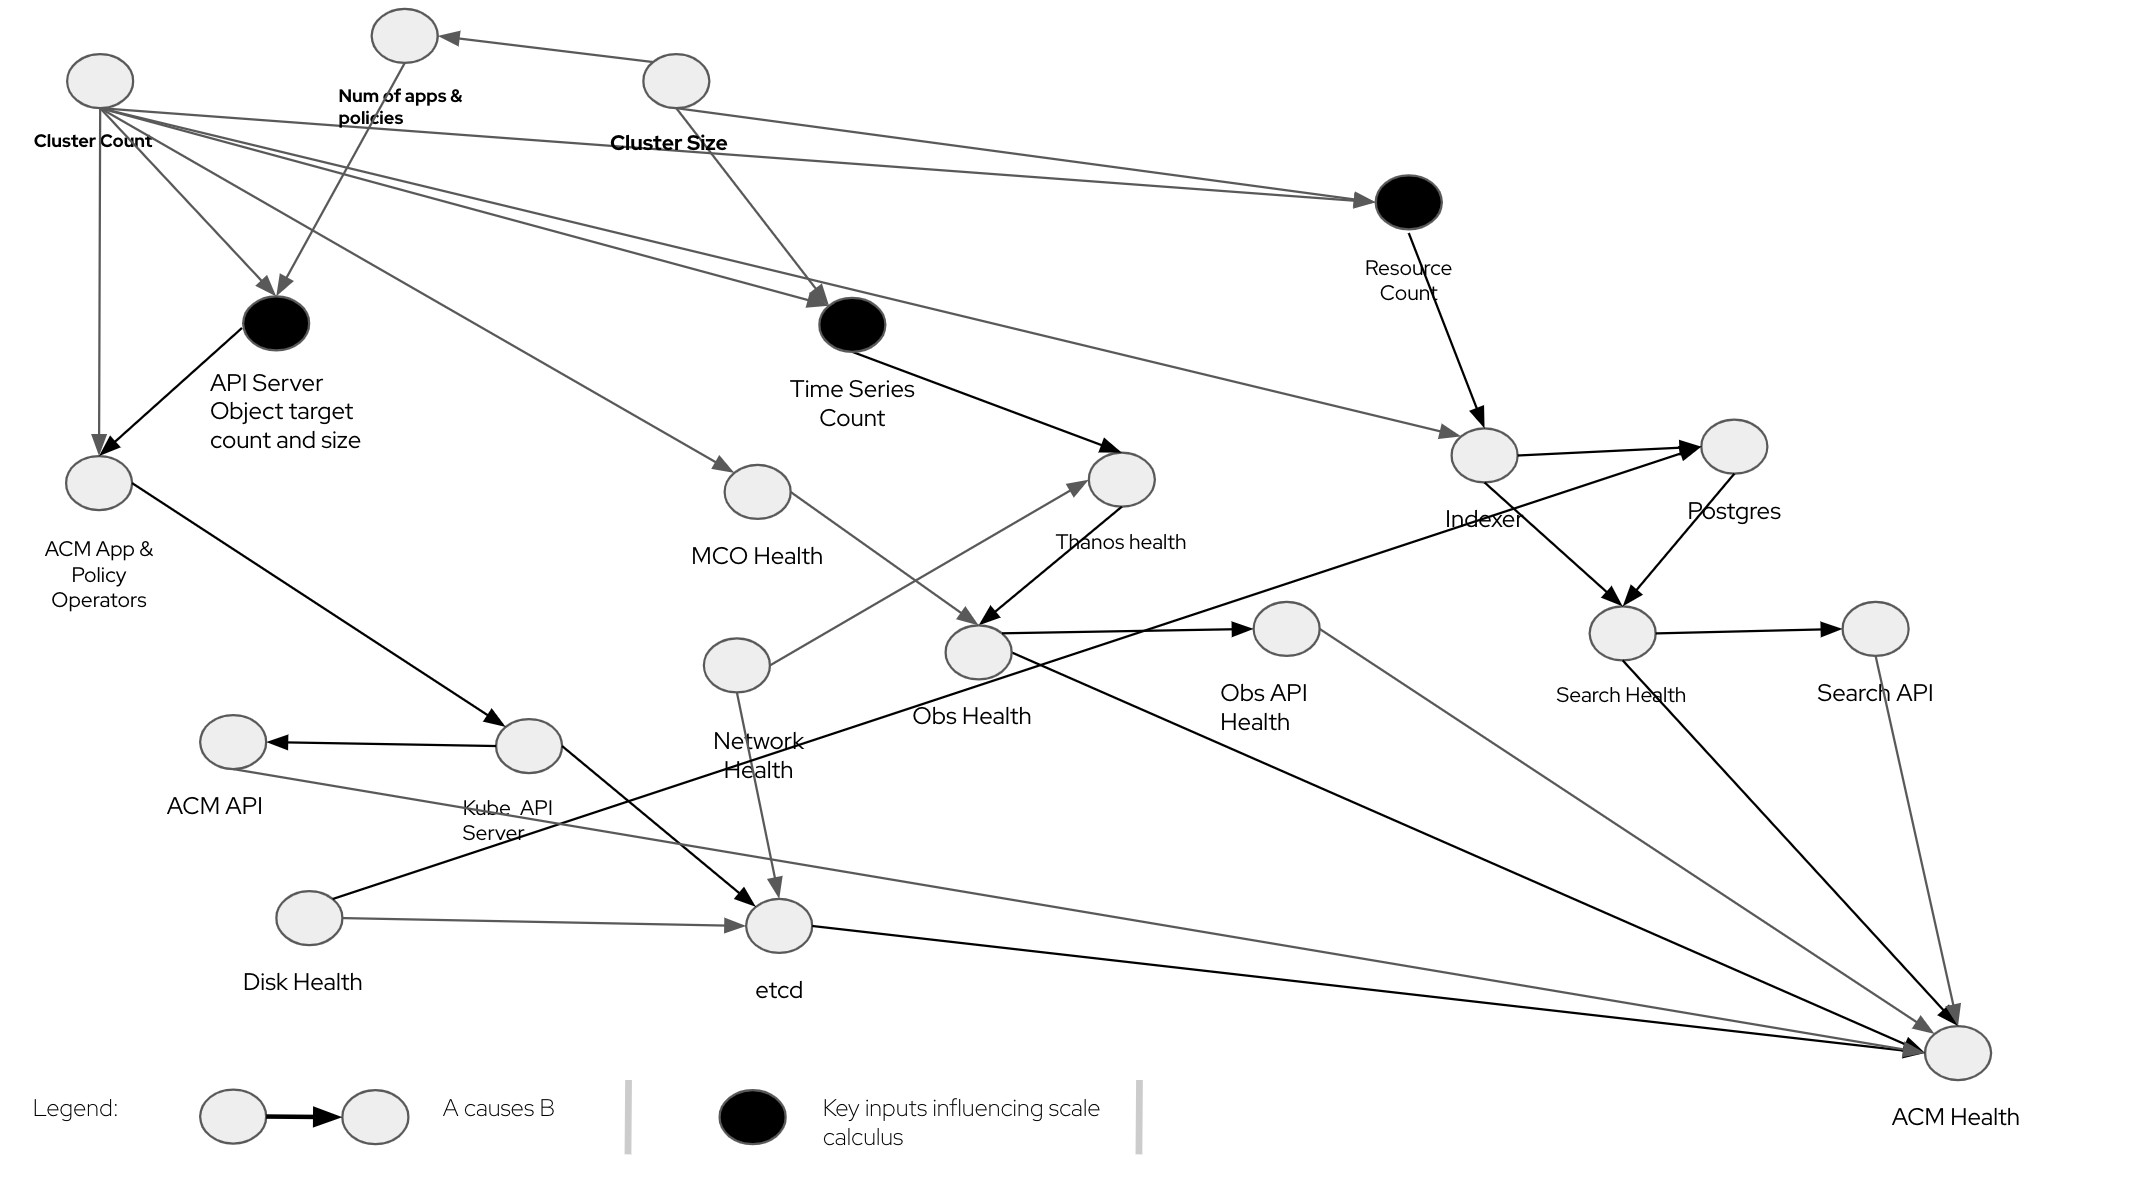
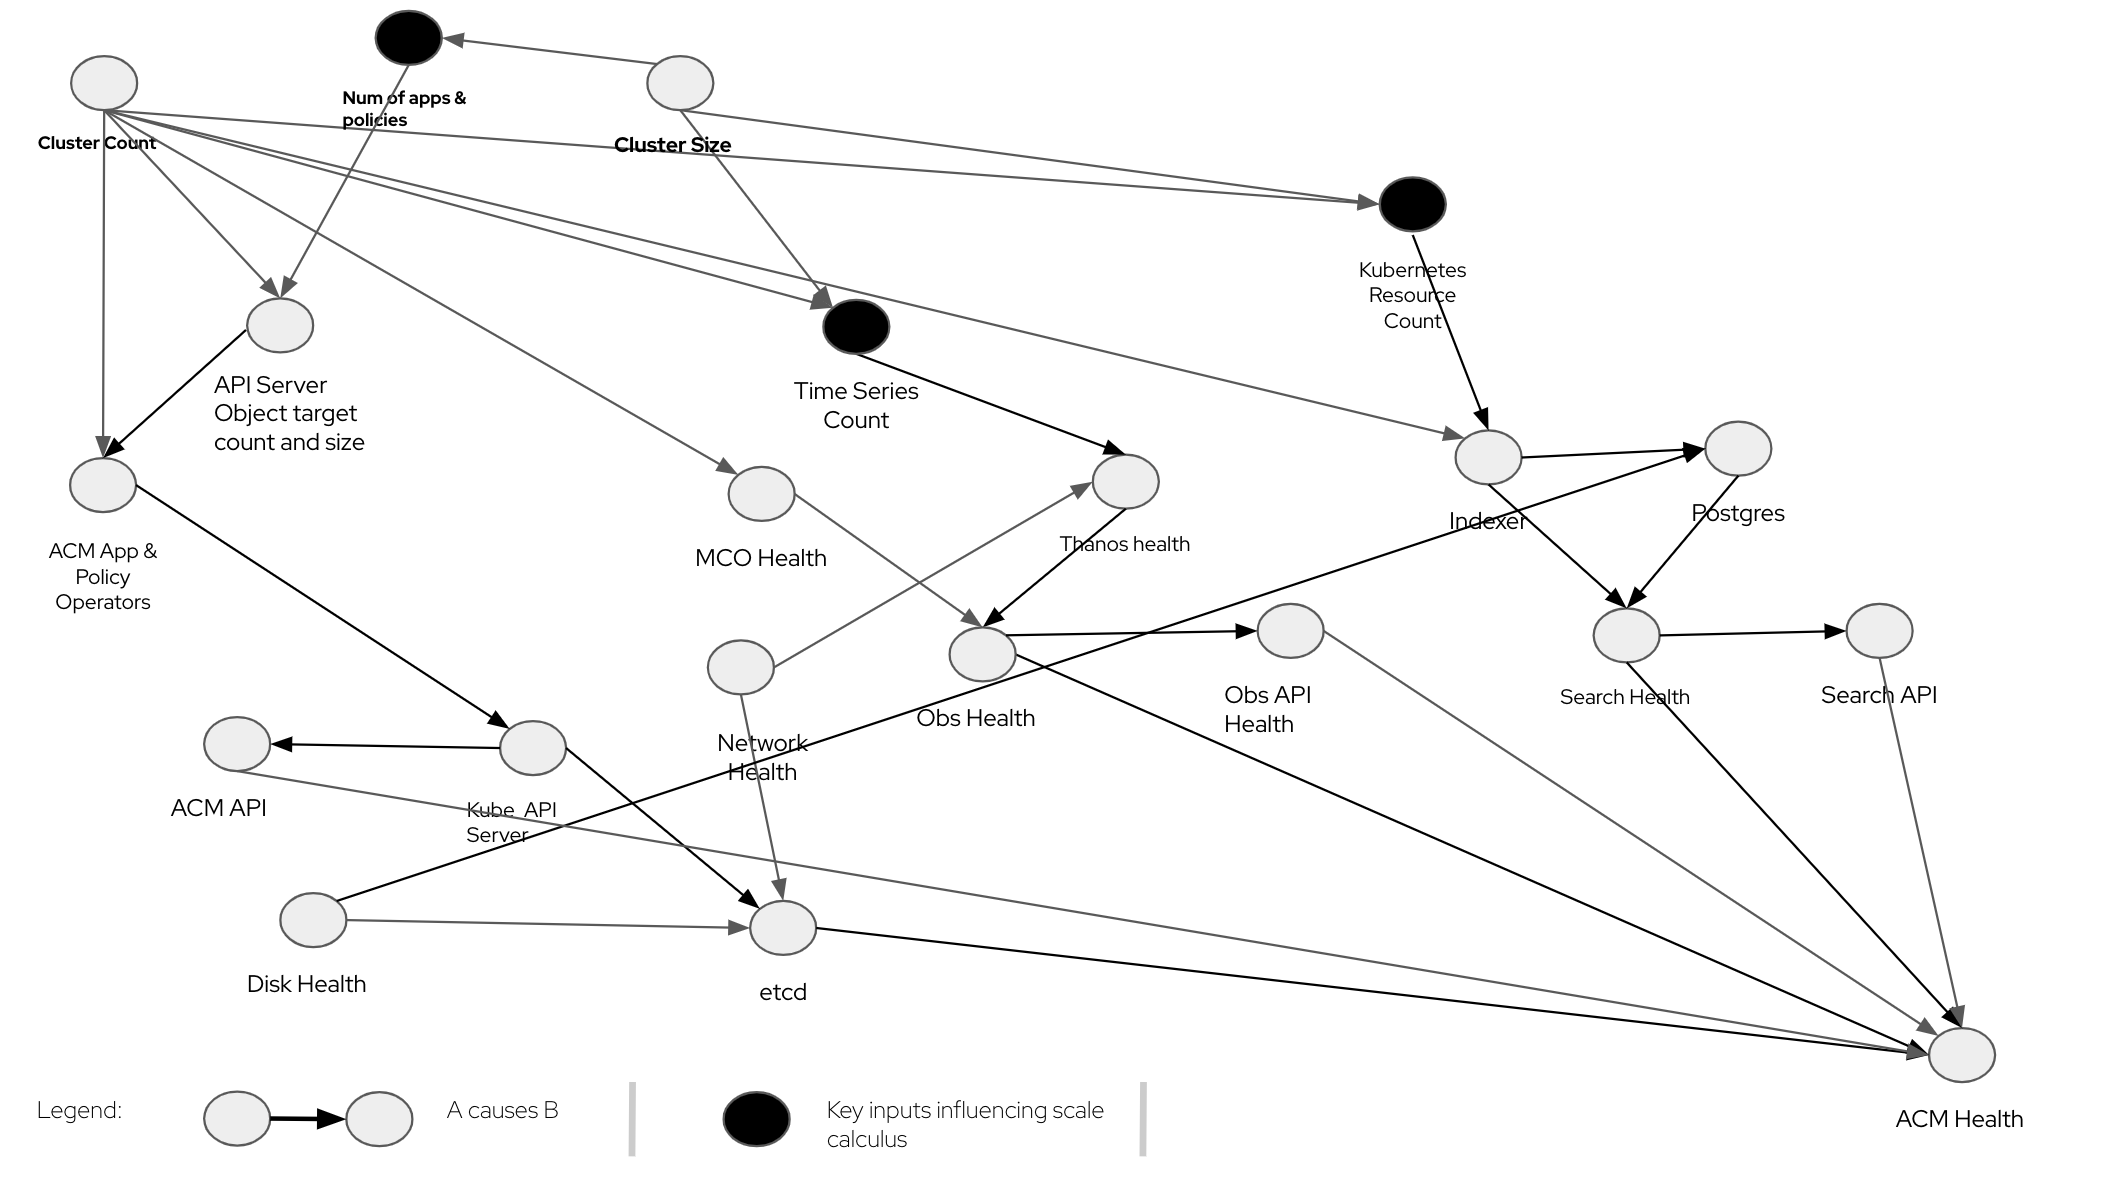
refine doc and drg

diff --git a/README.md b/README.md
@@ -30,17 +30,17 @@ Well then you’ve come to the right place! We here aim to reveal, in a not so m
       
 ## ACM Domain Knowledge
 
-One of the main goals of this tool is to investigate around scaling ACM. Below is a causal diagram of ACM from standpoint of scalability. This is definitely not a full complete ACM Causal diagram. That would be much more complex. Let us take a moment to review this figure and get the key idea behind this.
+One of the main goals of this tool is to investigate around scaling ACM. Below is a causal diagram of ACM from standpoint of scalability. This is definitely `not a full complete ACM Causal diagram`. That would be much more complex. Let us take a moment to review this figure and get the key idea behind this.
 ![Causal Diagram describing ACM Scalability Model](/ACMScalabilityCausalDAG.png)
 
 The big black dots are key drivers of ACM sizing along with the number of clusters it is managing. In other words, if we know the :
-- API Server Object target count and size (depends on how many applications and policies are defined on the cluster which depends on it size.)
+- Num of apps & policies (ie how many applications and policies are defined on the cluster) and this depends on the cluster size.
 - Time series count (depends on how large the cluster is and what kind of work is running on them)
 - Resoure count (depends on how large the cluster is and what kind of work is running on them)
 ACM scaling model is `conditionally independent of the real cluster size`. Ofcourse the number of clusters is still important. You could appreciate that given this model, when we do real performance measurement, we can simulate/create a number of clusters with any size (could be kind cluster, could be Single Node OpenShift clusters) than clusters of specific sizes. It is much simpler to do the former instead of the latter.
 
 So, to trace one line of the flow end to end:
-`API Server Object target count and size` drives load on the `ACM App & Policy Operators`. The `ACM App & Policy Operators` are also influenced by the `Cluster Count` - ie number of clusters - into which the applications and policies these have to be replicated to. These in turn creates resources on the `Kube API Server`. These resources are created in `etcd`. Therefore etcd health is one of the key drivers of `ACM Health`. And `etcd` health is also dependent on `Network health` and right `Disk health`.
+`Num of apps & policies` drives the `API Server Object target count and size` which in turn drives load on the `ACM App & Policy Operators`. The `ACM App & Policy Operators` are also influenced by the `Cluster Count` - ie number of clusters - into which the applications and policies these have to be replicated to. These in turn creates resources on the `Kube API Server`. These resources are created in `etcd`. Therefore etcd health is one of the key drivers of `ACM Health`. And `etcd` health is also dependent on `Network health` and right `Disk health`.
 
 ## Work-in-Progress
 
@@ -98,7 +98,32 @@ This has been tested using python 3.9.12. But if you do not want the hassle of s
       - There is `output/breakdown` directory which contains detailed png & csv files containing breakdown metrics for example by namespace or resource etc
       - Under the `output` directory all png & csv files contain metrics are grouped by time `only`
       - This allows us to merge all metrics under a csv called `master.csv` and to create a set of graphs (png) that start with the name `master-*.png`. These visually correlate how the system is performing with time as the number of managed clusters gets added. 
-2. `Current` data is printed out in the screen as below:
+2. The `master.csv` has metrics that corresponding to almost each of the descendants of the big black dots. If some are missing, they should be added - and you can help! Let us take a look at what is there now.
+
+      |Node|Metrics collected|
+      |---|---|
+      |API Server Object target count and size|Yes on count|
+      |ACM App & Policy Operators|Yes|
+      |ACM API|Need to be added - but should be same as API Server|
+      |Kube  API Server|Yes|
+      |etcd|Yes|
+      |etcd-Disk|Yes|
+      |etcd-Network|Yes|
+      |MCO Health|Yes|
+      |Thanos health|Yes|
+      |Obs Health|Can be inferred|
+      |Obs API Health|To be added|
+      |Indexer|Yes|
+      |Postgres|Yes|
+      |Search Health|Can be inferred|
+      |Search API|Need to be added|
+      |ACM Health|Can be inferred|
+      |Cluster Count|Yes|
+      |Num of apps & policies|Yes|
+      |Time Series Count|Yes|
+      |Kubernetes Resource Count|Yes|
+
+3. `Current` data is printed out in the screen as below:
 
 Note: `True` in the ouput means good status (*though this is not fully working yet*).
 ```
